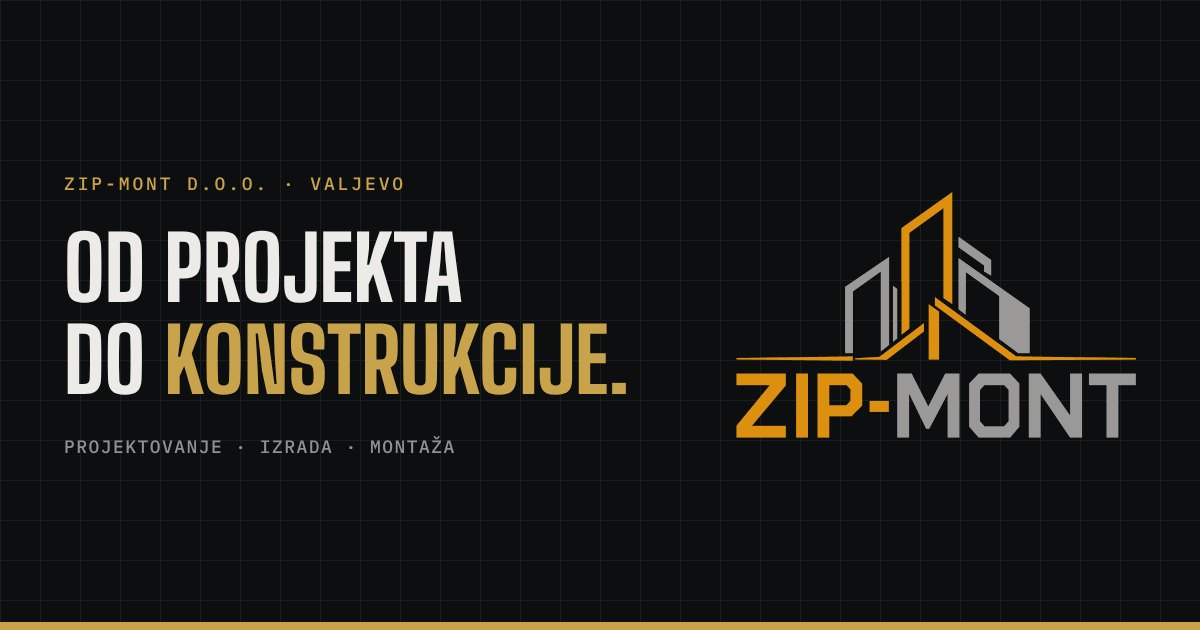
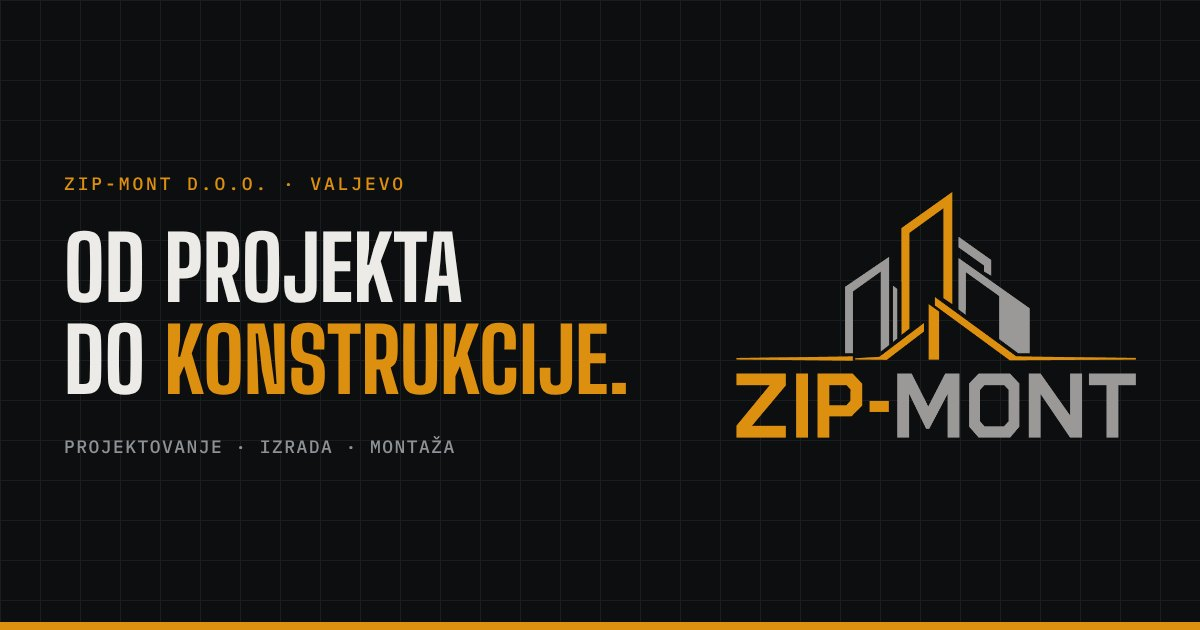
Akcentna boja prebačena na narandžasto zlato iz novog logoa

diff --git a/index.html b/index.html
@@ -165,8 +165,8 @@
   --steel:#8d9296;      /* sekundarni tekst, kote */
   --silver:#c4c7c9;     /* srebro iz logoa */
   --fg:#ecebe7;         /* primarni tekst */
-  --gold:#c9a24c;       /* zlato iz logoa */
-  --gold-hi:#e0c07a;    /* svetlije zlato, hover */
+  --gold:#dd900f;       /* narandžasto zlato iz novog logoa */
+  --gold-hi:#f0a83a;    /* svetlija nijansa, hover */
   --on-gold:#121212;
   --scrim:rgba(13,14,15,.72);
 
